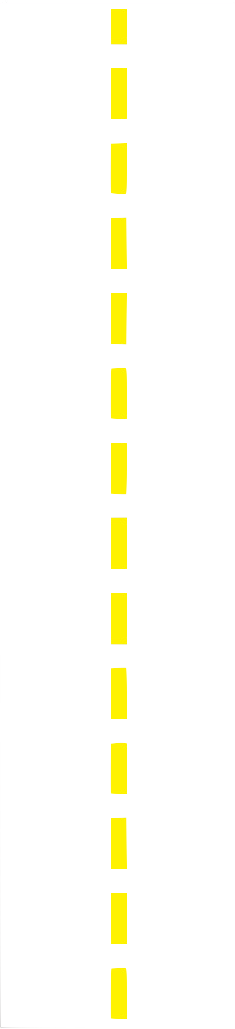
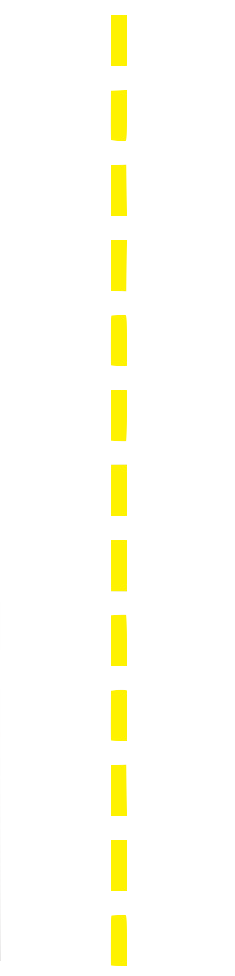
nm

diff --git a/templates/4by4.html b/templates/4by4.html
@@ -13,7 +13,7 @@
 					{{ sfh(0,id1,id2,0) }}
 					{{ mfh(0,id1,id2,0) }}
 				</div>
-				<div class="center">
+				<div class="vroad">
 					
 				</div>
 				<div class="right">
@@ -35,7 +35,7 @@
 					{{ solar(0,id1,id2,2) }}
 					
 				</div>
-				<div class="center">
+				<div class="vroad">
 					
 				</div>
 				<div class="right">

diff --git a/templates/8by8.html b/templates/8by8.html
@@ -7,7 +7,7 @@
 				<div class="left">
 					{{ 4by4(0,id,0) }}
 				</div>
-				<div class="center">
+				<div class="vroad">
 			
 				</div>
 				<div class="right">
@@ -29,7 +29,7 @@
 					{{ 4by4(0,id,2) }}
 			
 				</div>
-				<div class="center">
+				<div class="vroad">
 			
 				</div>
 				<div class="right">

diff --git a/templates/basecity.html b/templates/basecity.html
@@ -139,6 +139,8 @@
 	width: calc(1 * var(--block));
 	background: black;
 	background-image: url("img/vroad.png");
+	background-size: 100% auto;
+	background-repeat: repeat;
 	position: relative;
 }
 .right {
